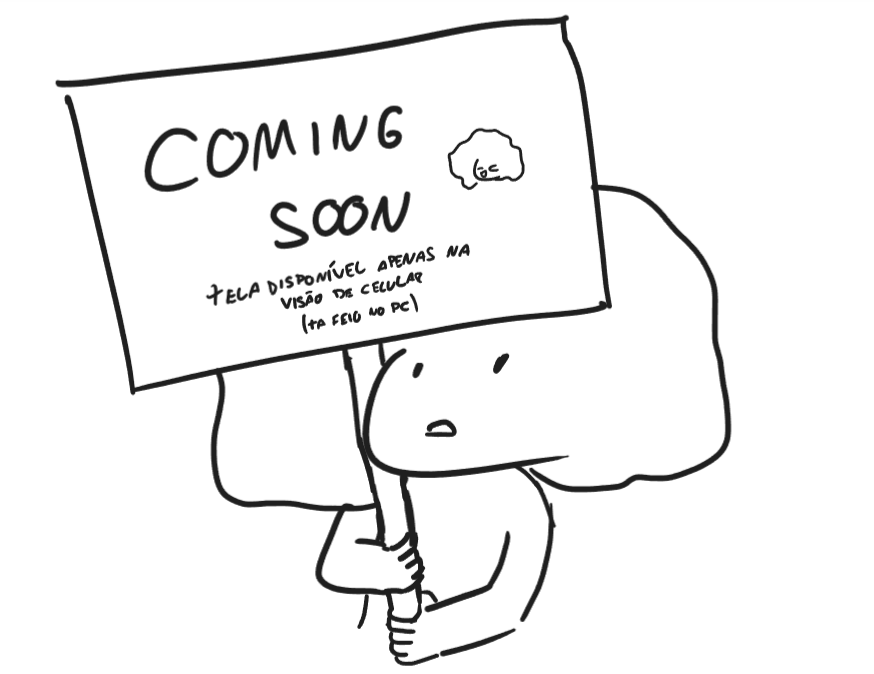
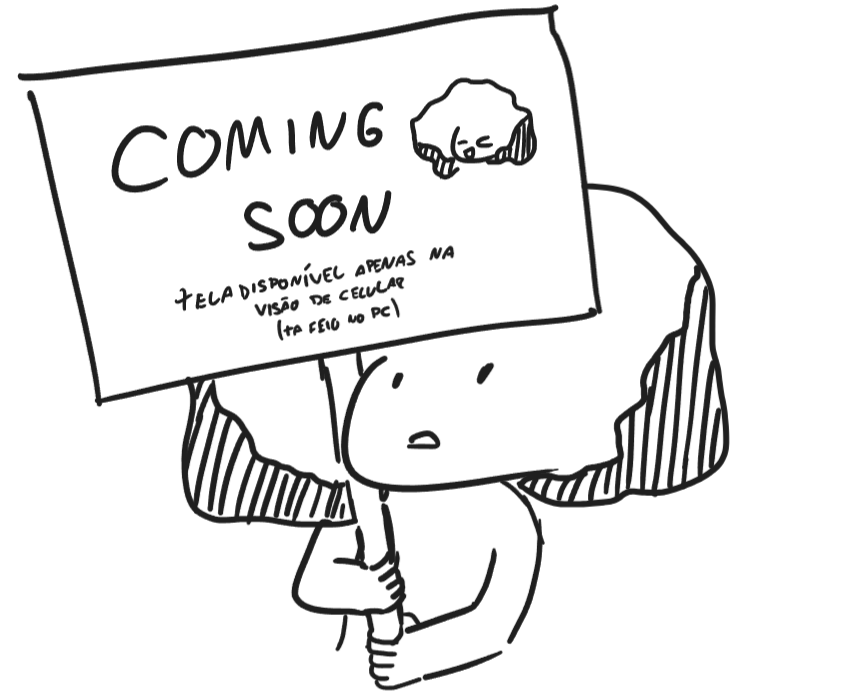
updates

diff --git a/basic.css b/basic.css
@@ -165,7 +165,7 @@ h3{
         justify-content: center;
         align-items: center;
 
-        display: none;
+    
     }
 
     #comingSoonImg{
